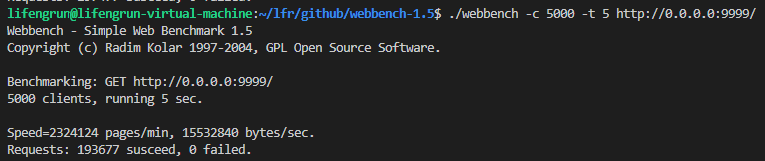
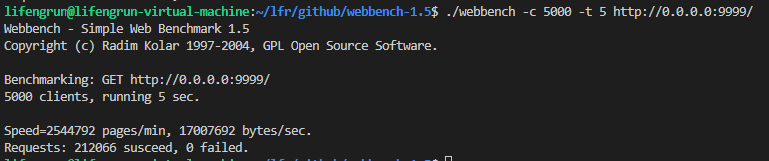
thread num

diff --git a/haha/src/EventLoop.cpp b/haha/src/EventLoop.cpp
@@ -116,7 +116,8 @@ void EventLoop::doPendingTasks(){
     std::vector<Task> tasks;
     callingPendingTasks_ = true;
     {
-        MutexLock::RAIILock lock(mutex_);
+        // MutexLock::RAIILock lock(mutex_);
+        SpinLock::RAIILock lock(mutex_);
         tasks.swap(pendingTasks_);
     }
     for(const auto &task : tasks){
@@ -127,7 +128,8 @@ void EventLoop::doPendingTasks(){
 
 void EventLoop::queueInLoop(Task task){
     {
-        MutexLock::RAIILock lock(mutex_);
+        // MutexLock::RAIILock lock(mutex_);
+        SpinLock::RAIILock lock(mutex_);
         pendingTasks_.push_back(std::move(task));
     }
 

diff --git a/haha/include/EventLoopThreadPool.h b/haha/include/EventLoopThreadPool.h
@@ -3,6 +3,7 @@
 
 #include <vector>
 #include <string>
+#include <thread>
 #include "base/noncopyable.h"
 #include "EventLoop.h"
 #include "EventLoopThread.h"
@@ -21,7 +22,7 @@ public:
     EventLoop::ptr getNextLoop();
 
 private:
-    EventLoopThreadPool(size_t ThreadNum = 4);
+    EventLoopThreadPool(size_t ThreadNum = std::thread::hardware_concurrency());
 
 private:
     bool started_;

diff --git a/haha/include/EventLoop.h b/haha/include/EventLoop.h
@@ -51,7 +51,8 @@ private:
     std::unique_ptr<Channel> wakeupChannel_;
     std::unique_ptr<TimerQueue> timerQueue_;
     
-    MutexLock mutex_;
+    // MutexLock mutex_;
+    SpinLock mutex_;
     Thread::ID threadId_;
     std::vector<Task> pendingTasks_;
     std::atomic_bool callingPendingTasks_;
